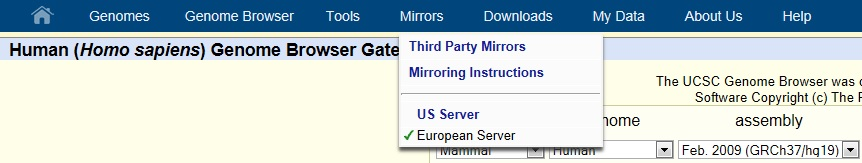
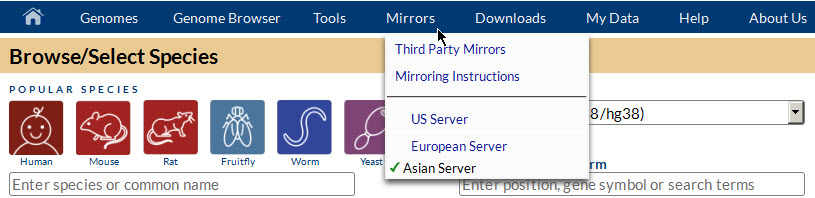
changed the image so the pulldown now has genome-asia, too.  also it now has the new gateway n the background.  fixed a broken umlaut on Univeristat Bielefeld. refs #17402

diff --git a/src/hg/htdocs/goldenPath/help/genomeEuro.html b/src/hg/htdocs/goldenPath/help/genomeEuro.html
@@ -64,7 +64,7 @@
                 </p>
 
                 <p>
-		Many thanks to our colleagues at the Universität Bielefeld Center for
+		Many thanks to our colleagues at the Universit&auml;t Bielefeld Center for
 		Biotechnology for hosting genome-euro, and at RIKEN for hosting genome-asia.
                 </p>
 	
